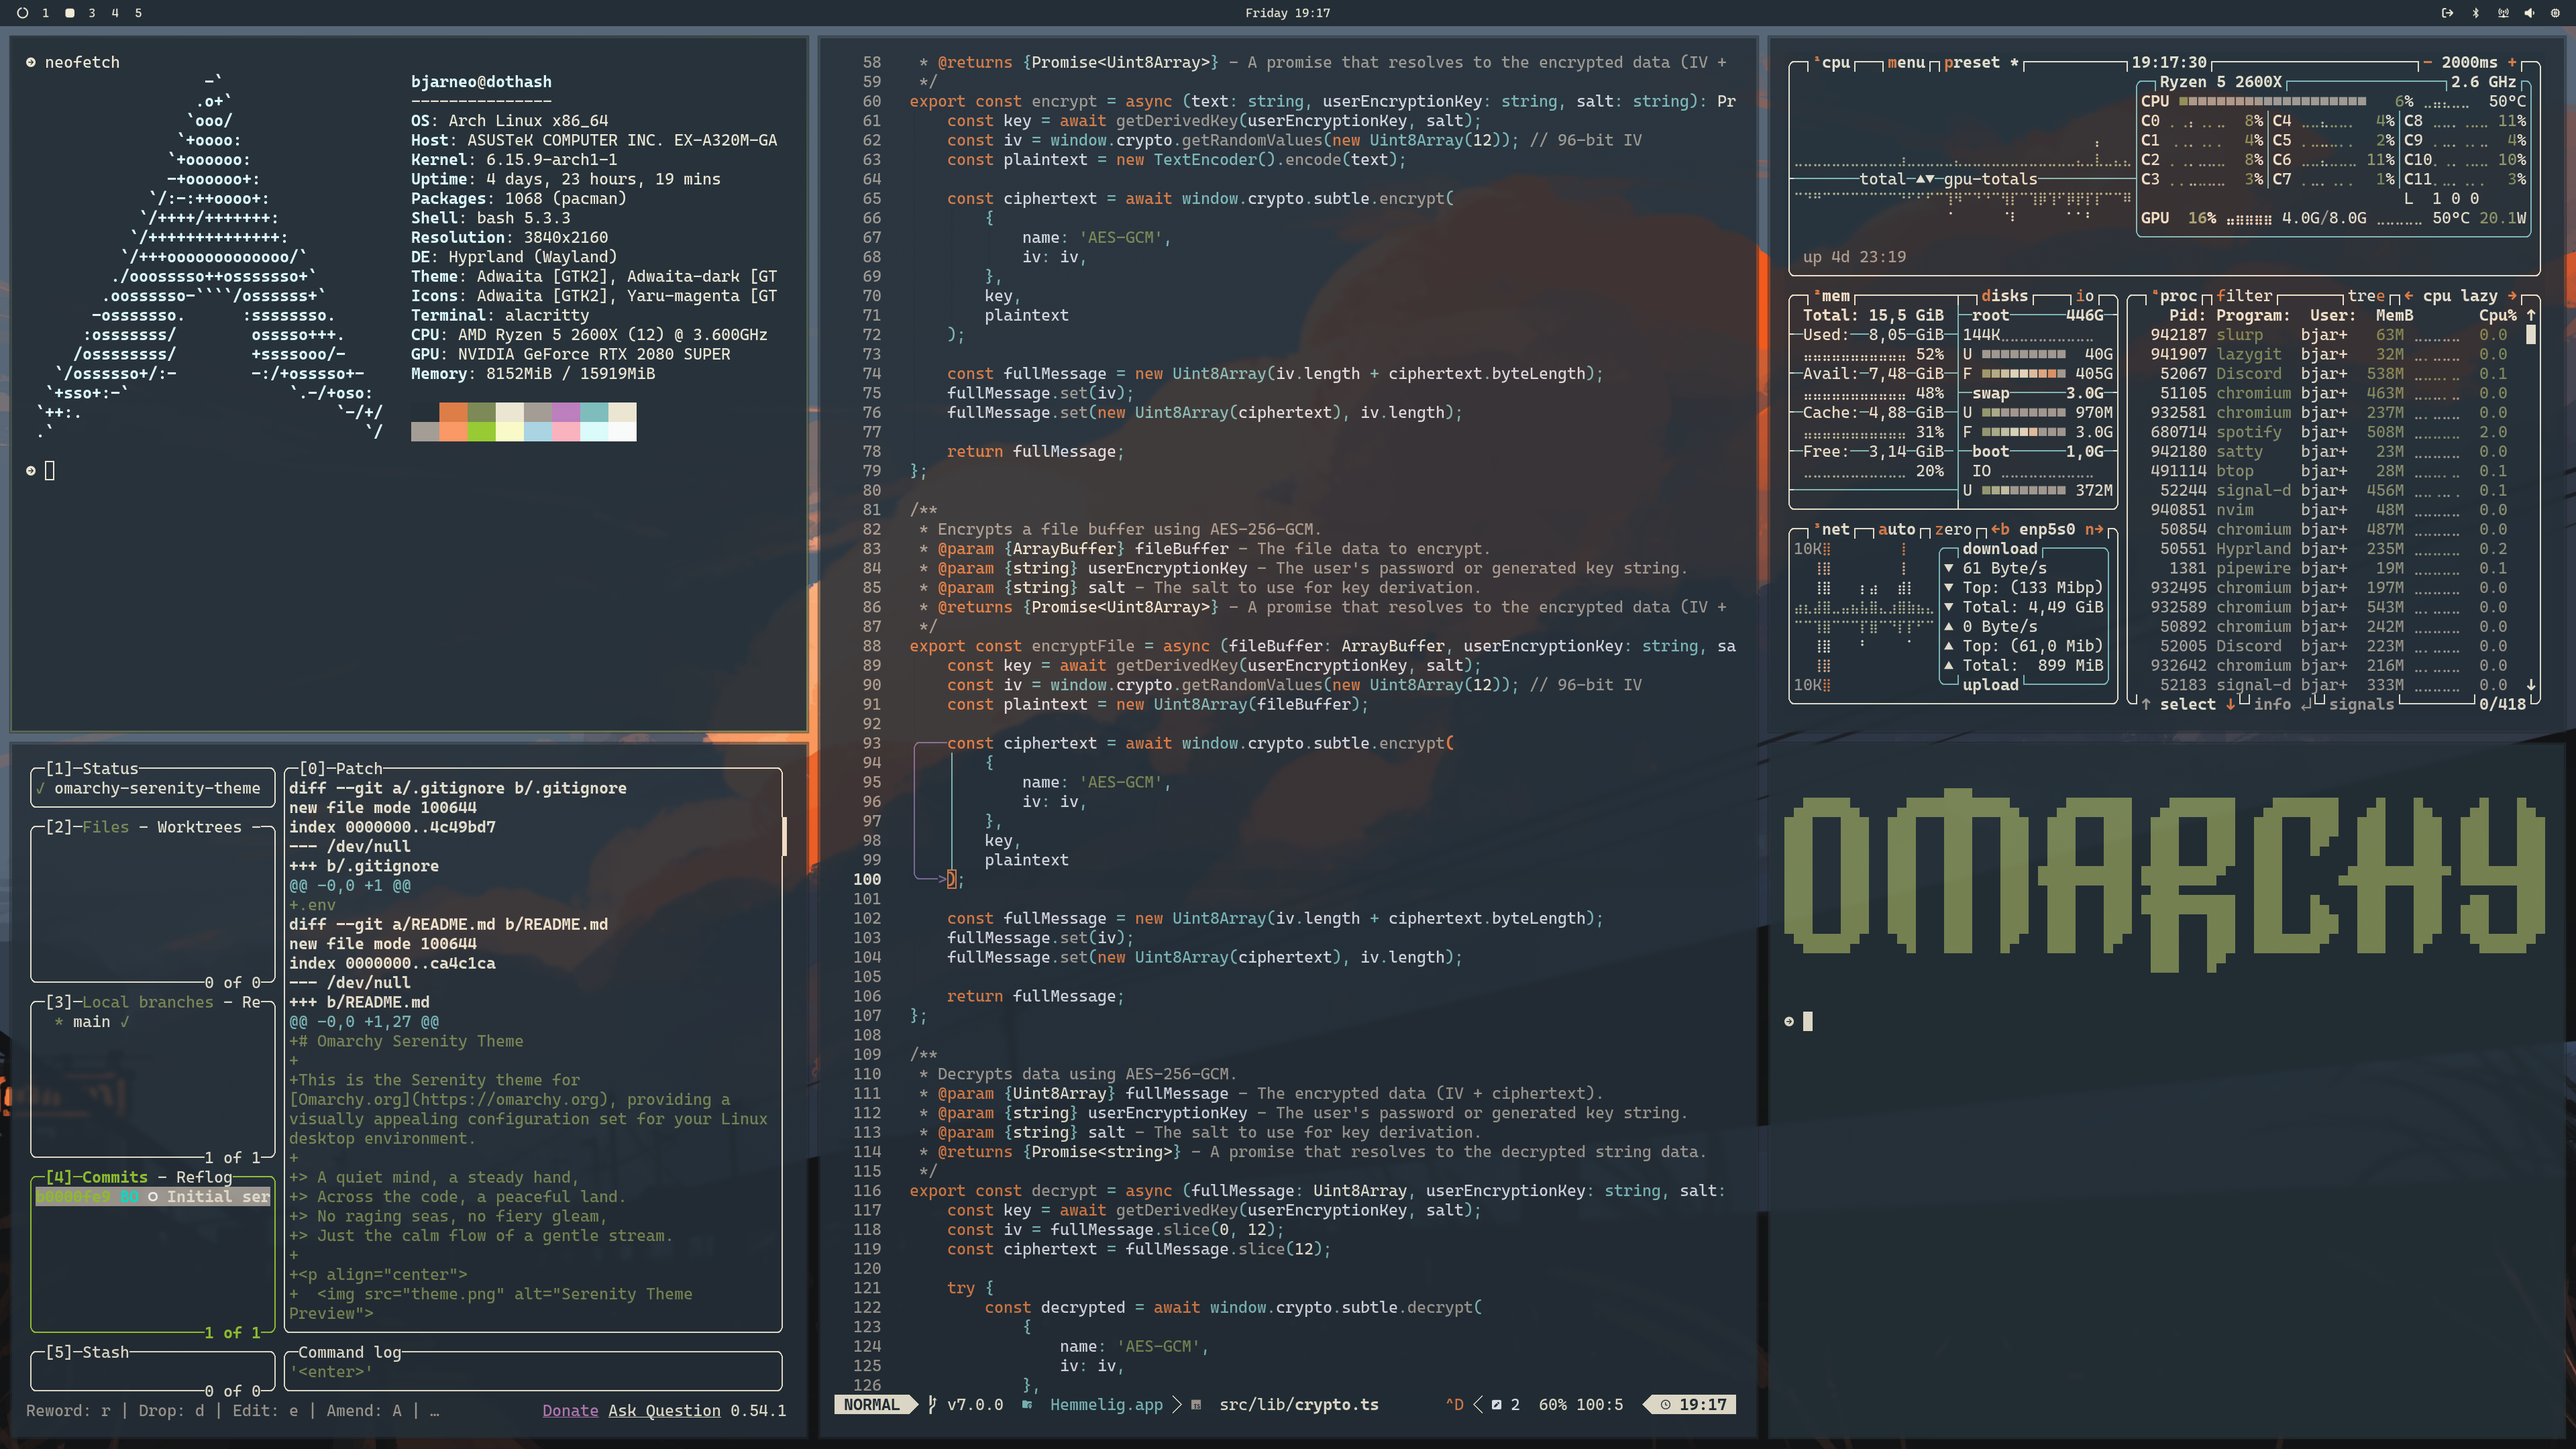
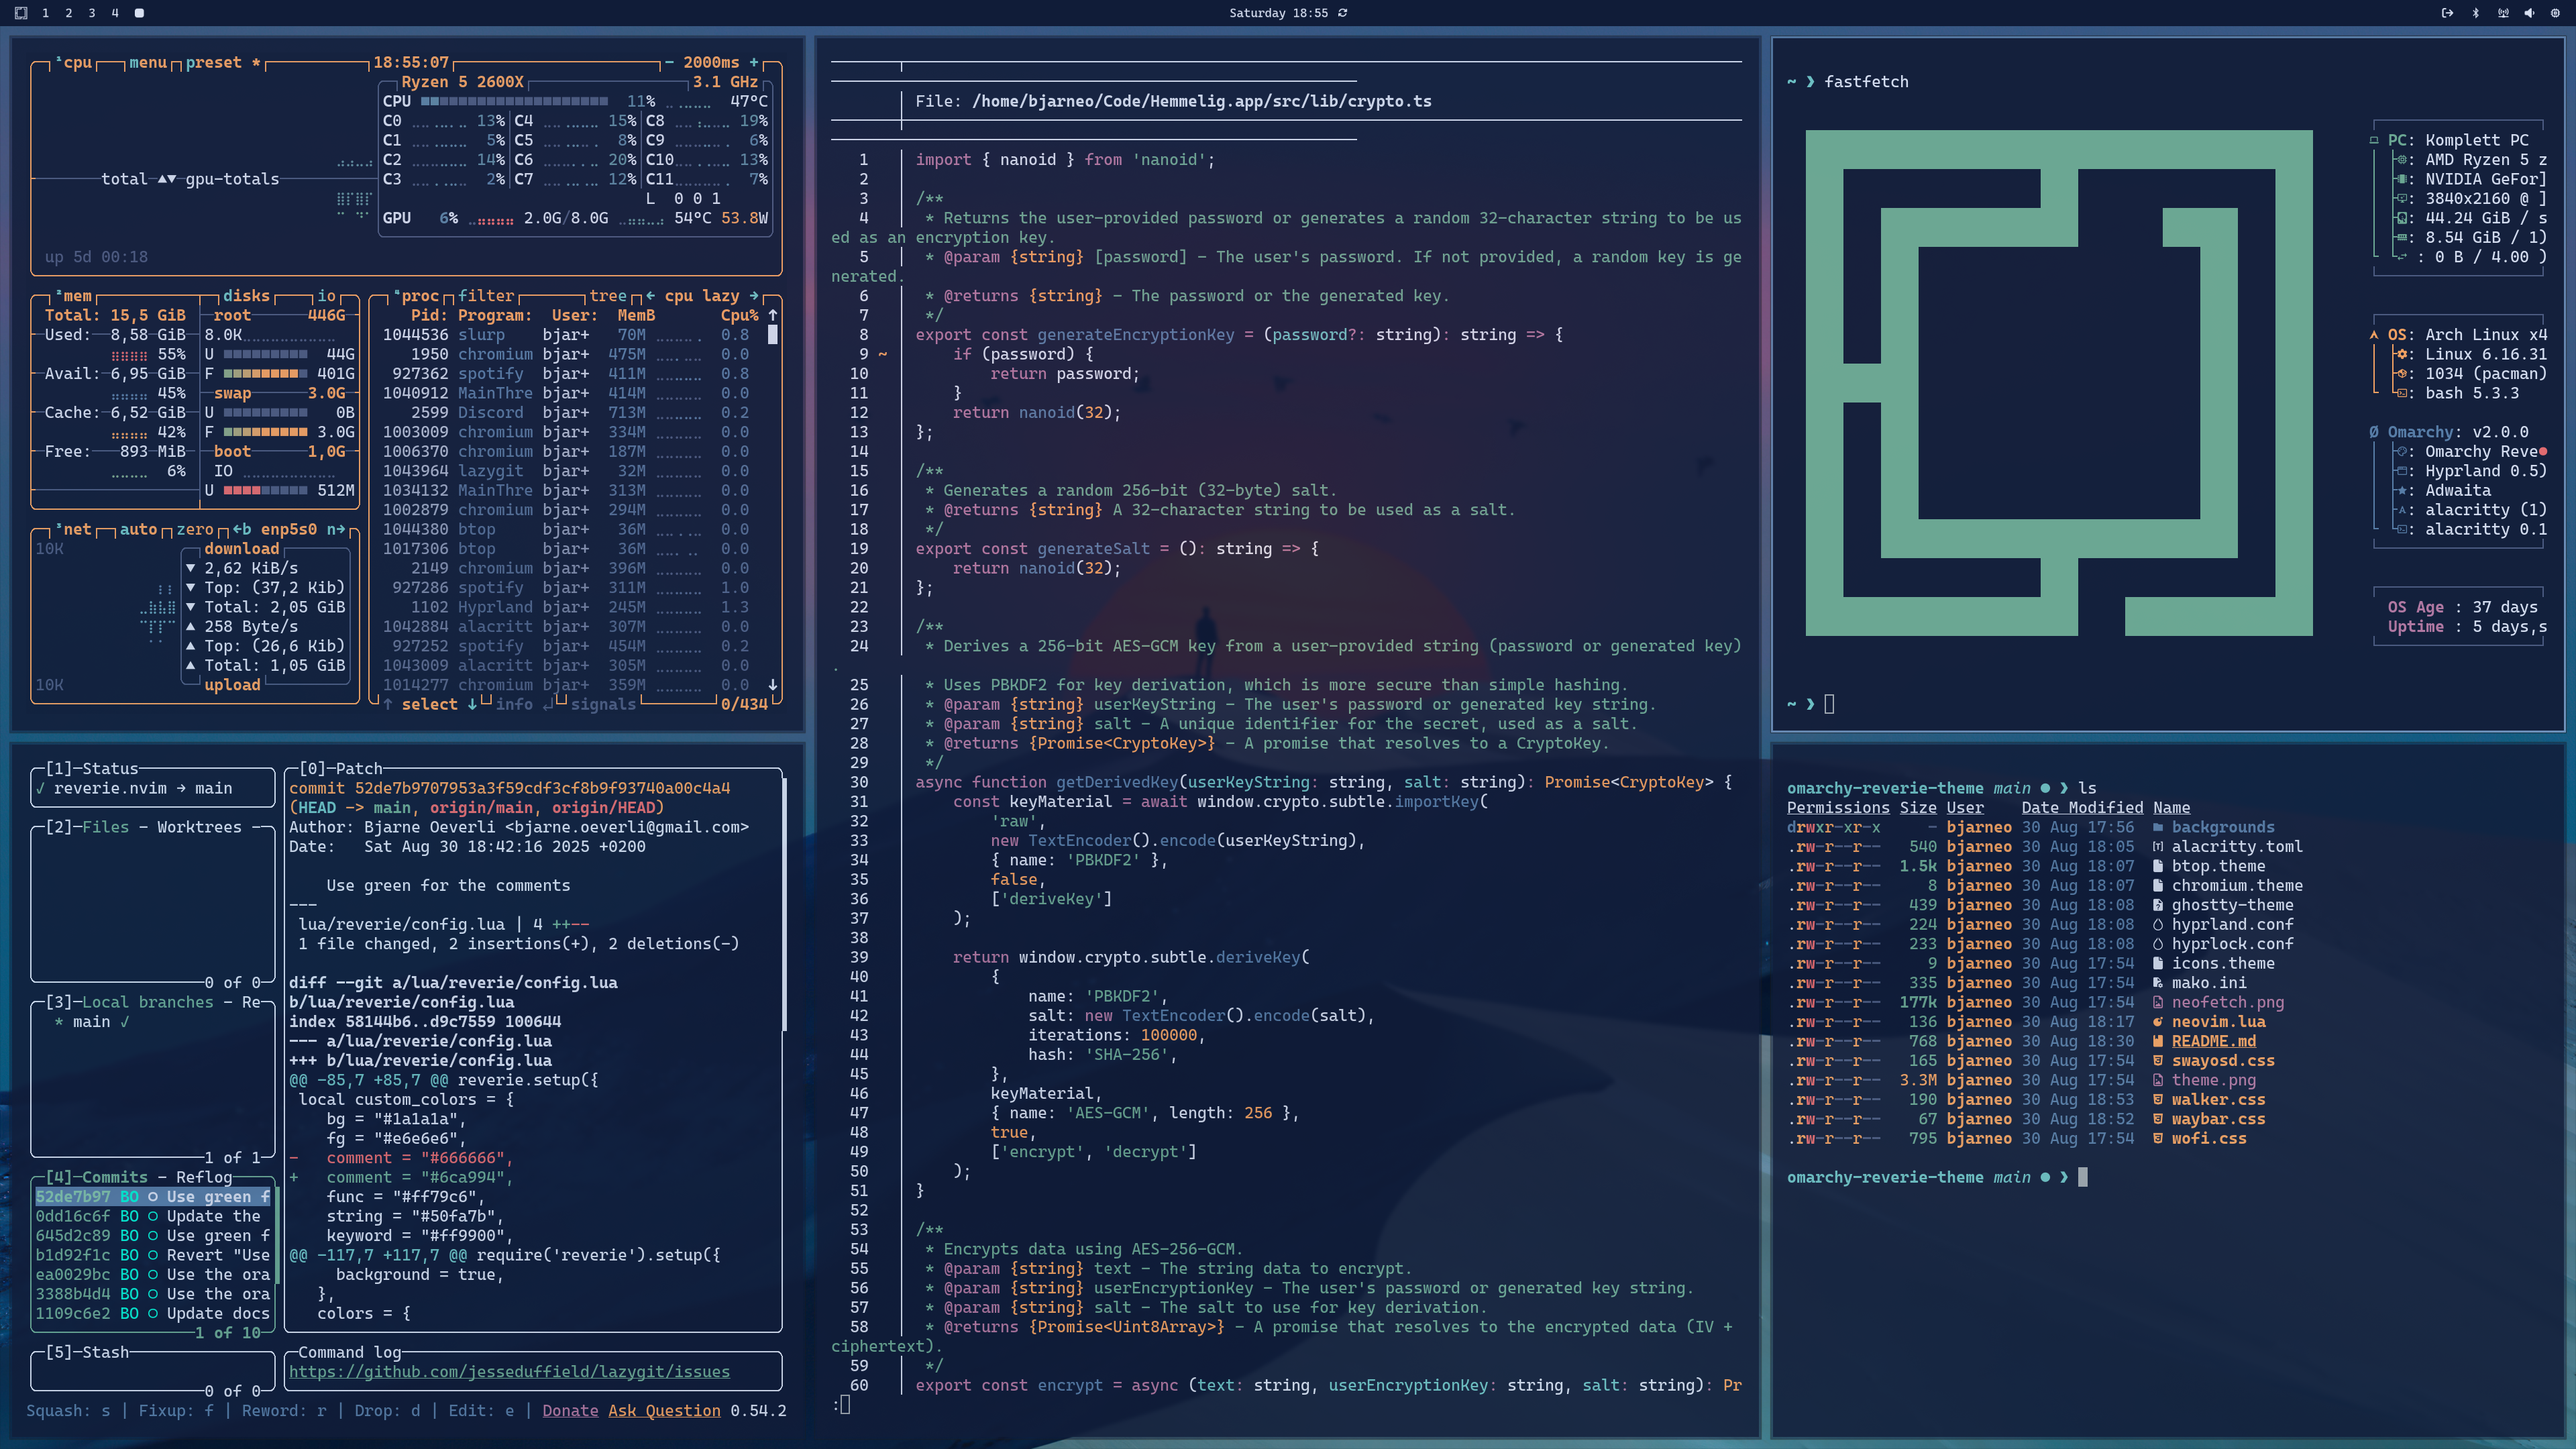
Update colors

diff --git a/walker.css b/walker.css
@@ -1,6 +1,6 @@
-@define-color selected-text #FFF9AF;
-@define-color text #FFF9AF;
-@define-color base #0F354D;
+@define-color selected-text #ffffff;
+@define-color text #d8e0f2;
+@define-color base #101c38;
 @define-color border #1C6EA4;
-@define-color foreground #FFF9AF;
-@define-color background #0F354D;
+@define-color foreground #d8e0f2;
+@define-color background #101c38;

diff --git a/waybar.css b/waybar.css
@@ -1,2 +1,2 @@
-@define-color foreground #FFF9AF;
-@define-color background #0F354D;
+@define-color foreground #d8e0f2;
+@define-color background #101c38;

diff --git a/README.md b/README.md
@@ -1,11 +1,12 @@
-# Omarchy Serenity Theme
+# Omarchy Reverie Theme
 
-This is the Serenity theme for [Omarchy.org](https://omarchy.org), providing a visually appealing configuration set for your Linux desktop environment.
+Reverie is a simple, elegant, and dark theme for Omarchy.org. It's designed for those moments of deep focus, when the world fades away and all that's left is you and your code.
 
-> A quiet mind, a steady hand,  
-> Across the code, a peaceful land.  
-> No raging seas, no fiery gleam,  
-> Just the calm flow of a gentle stream.  
+> Where sky and shadow softly meet,  
+> the world outside makes its retreat.  
+> The mind, in silent reverie,  
+> is calmed by light it came to see,  
+> and finds itself completely free.  
 
 <p align="center">
   <img src="theme.png" alt="Serenity Theme Preview">
